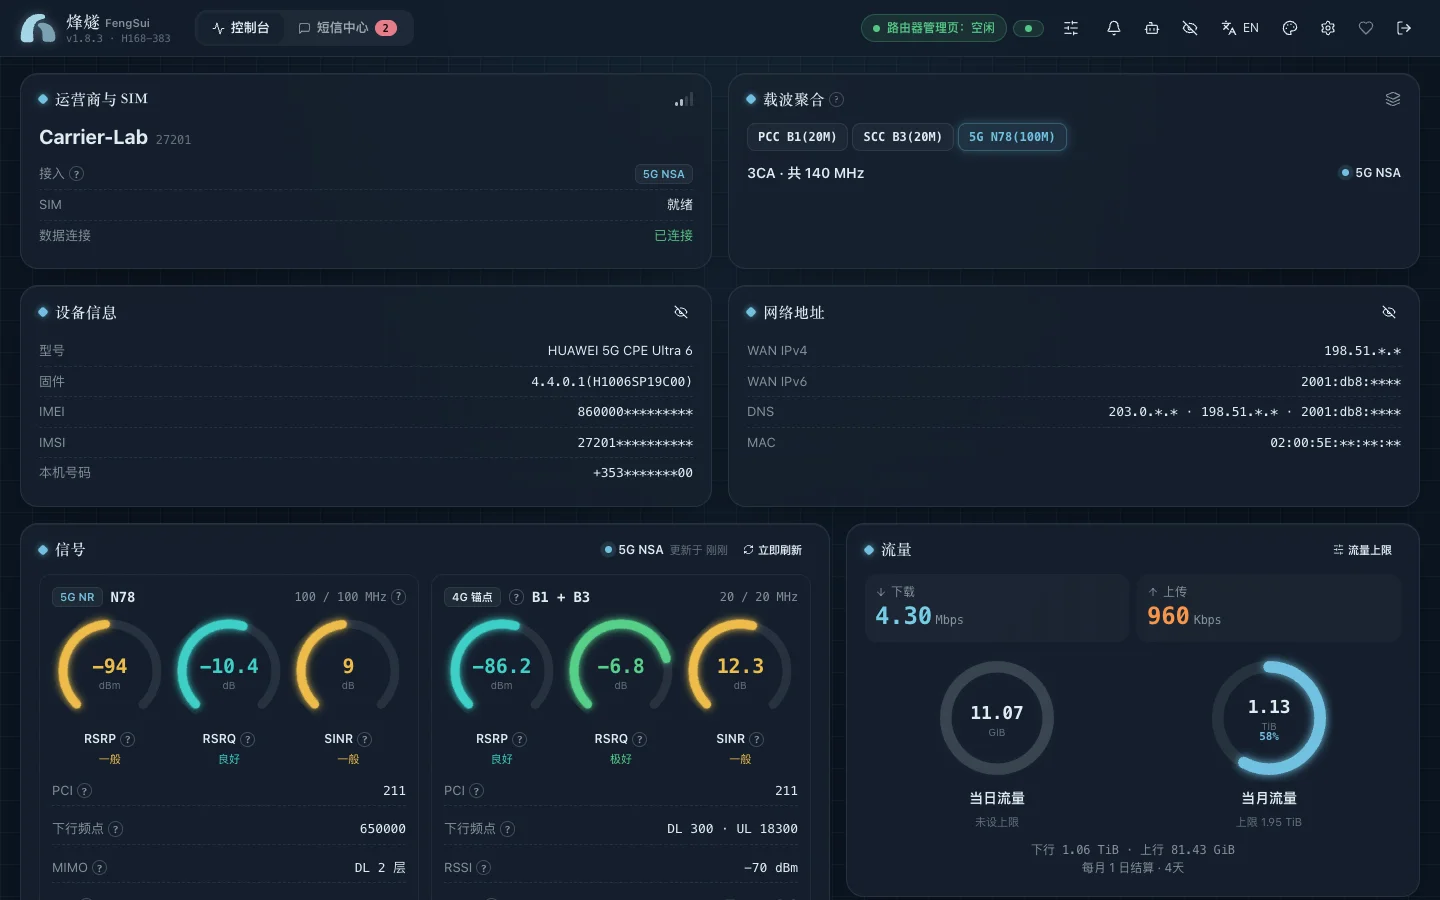
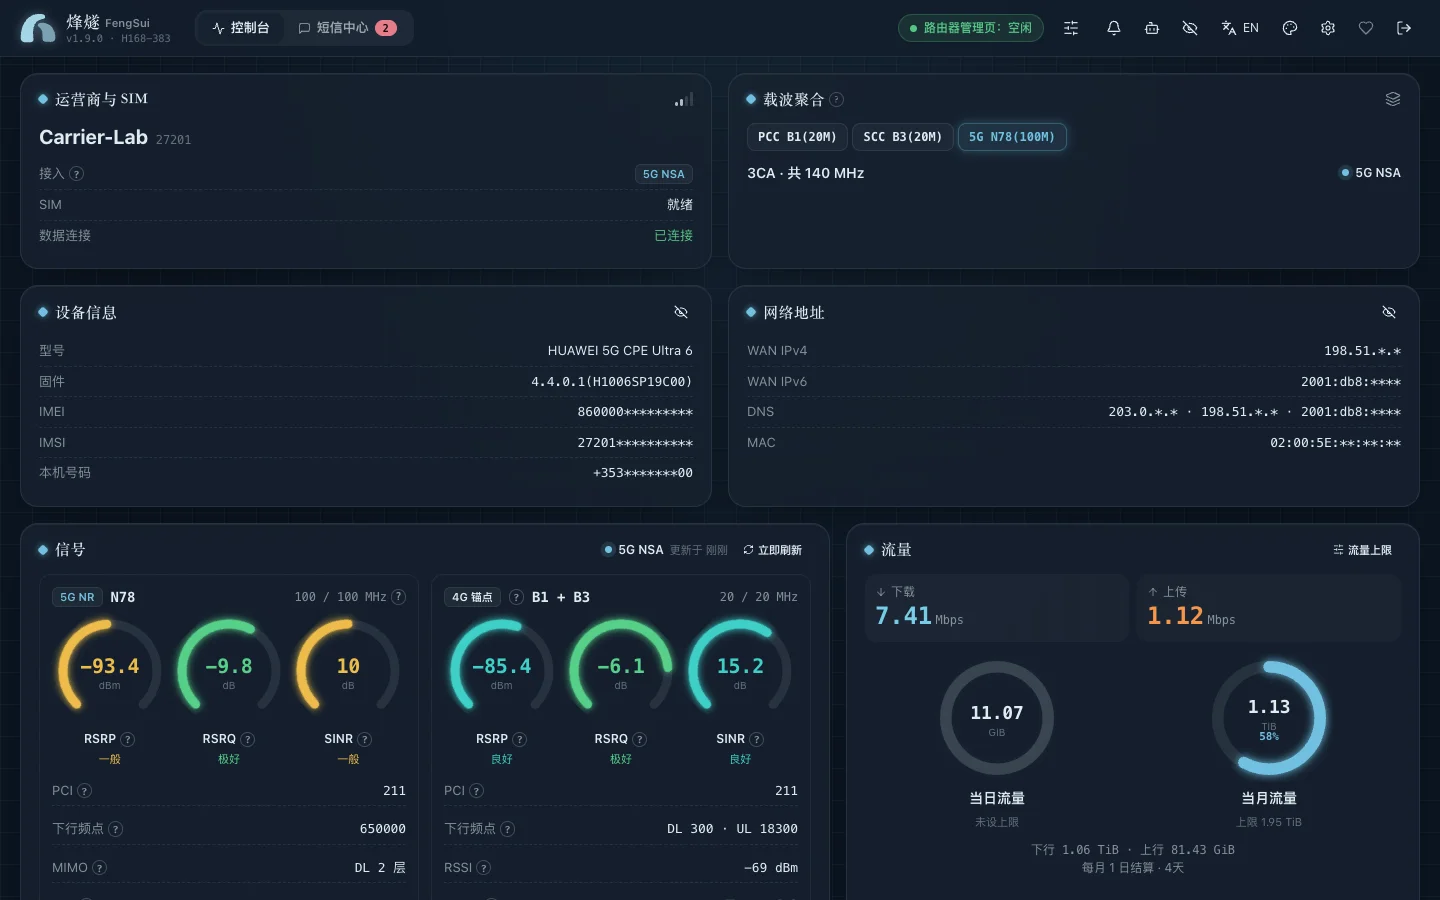
release: v1.9.0
Writes on by default on routers nobody verified, each with its switch;
D-Link and TP-Link, ZTE's reqproc spelling and FiberHome's Pro series;
SMS, redial, mobile data, connected devices and the router's own status
on other brands; the cellular settings with their 3-minute fallback;
the Supported devices table of every model with the reports that verify
it; and the live demo running FengSui itself. Version files, the
changelog section and the screenshots retaken on this version.

diff --git a/src/version.ts b/src/version.ts
@@ -1,2 +1,2 @@
 /** Release version reported by `GET /api/health` and the web dashboard; kept equal to package.json. */
-export const FENGSUI_VERSION = "1.8.3";
+export const FENGSUI_VERSION = "1.9.0";

diff --git a/CHANGELOG.md b/CHANGELOG.md
@@ -4,12 +4,14 @@ All notable changes to 烽燧 FengSui (`cpe-dash`). Versions follow [Semantic Ve
 
 ## [Unreleased]
 
+## [1.9.0] — 2026-11-16
+
 ### Highlights
 - **Writes on by default on routers nobody verified.** On another Huawei model or a router of another brand, the writes FengSui implements for it work as soon as the router is identified, and you can turn any of them off under Settings → Device. Each is sent once and read back in the same session, a read-back that differs raises an alert, and a band or cell lock, or a change of network mode, operator, SIM slot or access point, that takes the internet down is put back after 3 minutes.
 - **Two more brands, and more on every brand.** FengSui now connects to D-Link's DWR-960 and DWR-961, TP-Link's MR, NX / EX and Deco 5G routers, ZTE routers whose firmware spells the interface `reqproc`, and FiberHome's Pro series. Routers of other brands gain SMS, redial and mobile data, connected devices, and the router's own status: battery, SIM card, airplane mode, roaming, load and temperatures, with alerts for a low battery and a locked SIM card.
 - **Cellular settings.** The network mode, a search for networks and manual operator selection, the SIM slot and PIN, airplane mode, data roaming, the access point, a data limit, clearing the traffic counters and USSD, on every router whose interface records them: in the controls drawer, over REST and MCP, and for three of them in Telegram. On the H168-383, roaming, the network mode, the operator and clearing the counters were checked on a real router.
 - **Supported devices lists every model.** The page has a row for each of the 270 or so models on record, with a mark per feature (✓ verified, ? implemented and waiting for a report, △ partly, — not available). Settings → Device shows your router's row, the device report says feature by feature what works, and the one-click AI agent test writes a prompt for your router, so that a report can turn its cells into ✓.
-- **The live demo runs FengSui itself**, in front of a verified H168-383, another Huawei model, a ZTE mobile router and a D-Link router, and the documentation site has an API reference and a page on the architecture.
+- **The live demo runs FengSui itself.** FengSui's own services run in the page, in front of four demo routers: a verified H168-383, another Huawei model, a ZTE mobile router and a D-Link router. The documentation site has an API reference and a page on the architecture.
 
 ### Added
 - **Two more brands: D-Link and TP-Link.** FengSui now connects to D-Link's DWR-960 and DWR-961 and to TP-Link's MR series (Archer MR600, MR400, MR402, MR402-Outdoor and MR202, TL-MR100, TL-MR100-Outdoor, TL-MR105, TL-MR110-Outdoor, TL-MR101, TL-MR108, TL-MR150, TL-MR6400 and TL-MR6500v), the models on TP-Link's newer JSON form (Archer NX200, NX205, NX505, NX600, NX200-Outdoor, NE200-Outdoor, NX510v, NX540v, Archer MX1500, MX700, MX515v, Archer MR550 and MR500-Outdoor, and the M8550 mobile router) and the Deco X50-5G, through the interface each router's own page uses; brand detection recognises them, and you can also choose "D-Link (DWR series 4G routers)" or "TP-Link (Archer MR and NX series, Deco 5G)" under Settings → Router. Neither brand has been checked on a real router yet: the Supported devices page marks every feature as waiting for a report.

diff --git a/docs/dev/api.md b/docs/dev/api.md
@@ -159,7 +159,7 @@ export interface ApiErrorEnvelope {
 类型定义以源码为准：[`HealthResponse`](../../src/api-contract.ts)。下面是这些类型原先在本文里的字段说明（原注释，逐条保留）：
 
 - **`HealthResponse`**
-  - `version`：当前为 "1.8.3"
+  - `version`：当前为 "1.9.0"
 
 #### `POST /api/setup/login`（免鉴权，仅限尚无控制台密码时）与 `POST /api/auth/reset`（免鉴权，重置码）
 ```ts
